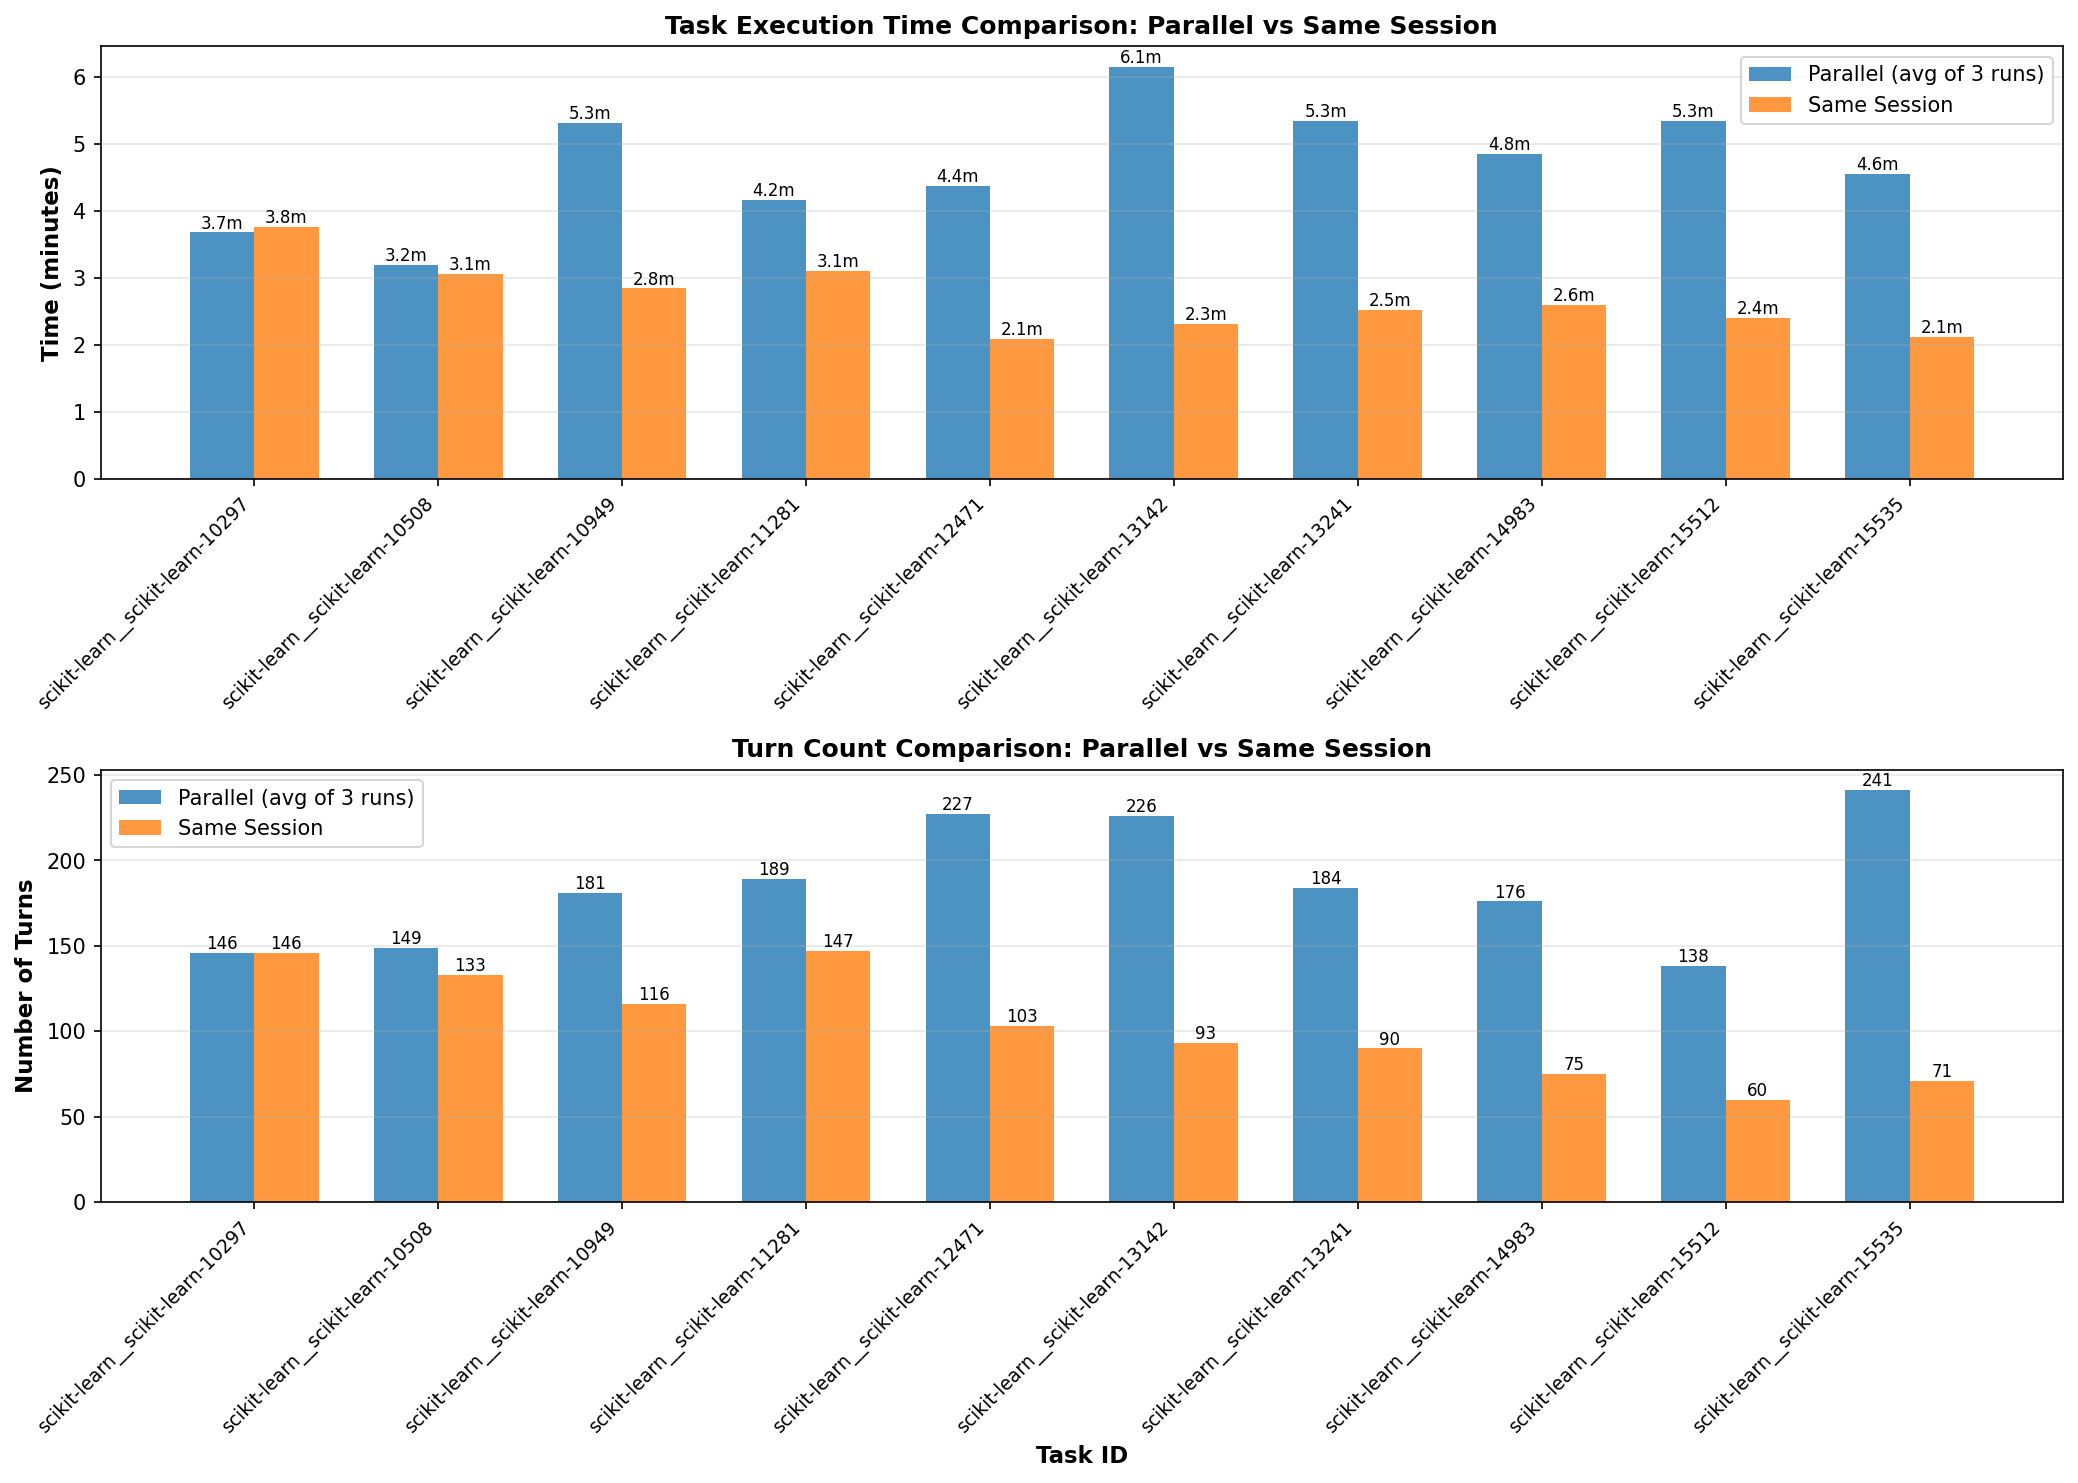
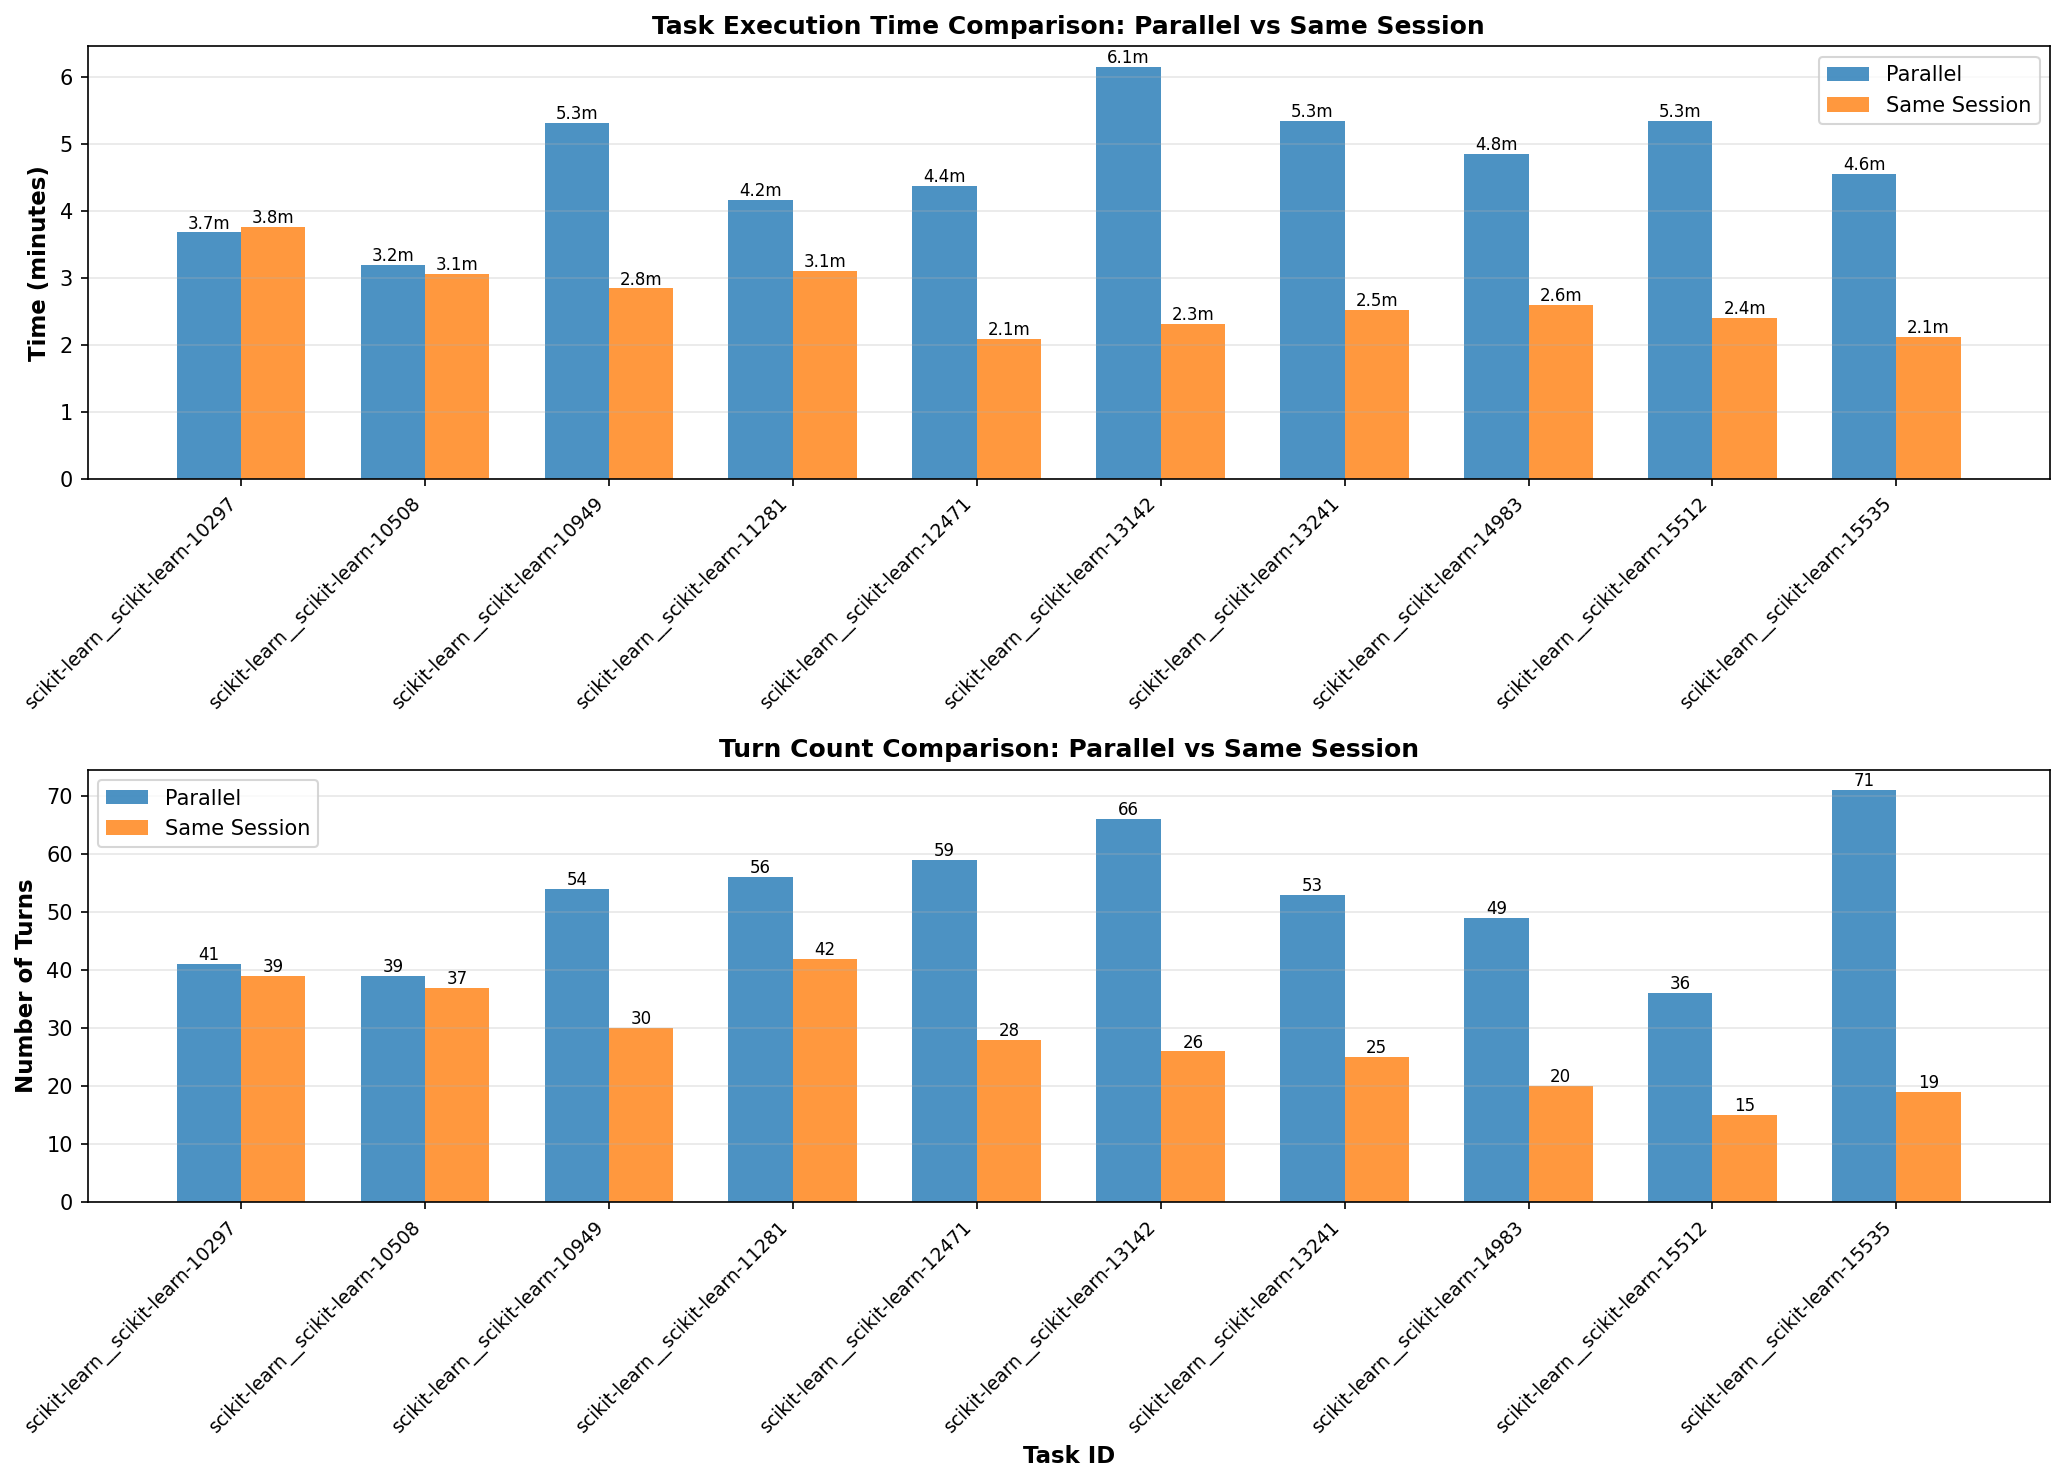
update turn count formula

diff --git a/generate_scikit_comparison.py b/generate_scikit_comparison.py
@@ -29,7 +29,9 @@ def parse_logs(log_dirs):
                     ts_str = data.get("timestamp")
                     if ts_str:
                         timestamps.append(ts_str)
-                    turn_count += 1
+                    # Count turns as tool execution cycles (number of user tool result events)
+                    if data.get("payload", {}).get("type") == "user":
+                        turn_count += 1
 
             if timestamps:
                 start = datetime.fromisoformat(timestamps[0].replace('+00:00', '+00:00'))
@@ -57,13 +59,12 @@ def main():
     parallel_raw = parse_logs(parallel_dirs)
     same_session_raw = parse_logs([same_session_dir])
 
-    # Aggregate parallel runs (take average across the 3 parallel runs)
+    # Aggregate parallel runs (each task appears in only one directory)
     parallel_metrics = {}
     for task_id, data in parallel_raw.items():
         parallel_metrics[task_id] = {
-            "elapsed_minutes": np.mean(data["times"]),
-            "turns": np.mean(data["turns"]),
-            "times": data["times"]
+            "elapsed_minutes": data["times"][0],
+            "turns": data["turns"][0],
         }
 
     # Same session has one run per task
@@ -105,7 +106,7 @@ def main():
     width = 0.35
 
     ax = axes[0]
-    bars1 = ax.bar(x - width/2, times_parallel, width, label='Parallel (avg of 3 runs)', color='#1f77b4', alpha=0.8)
+    bars1 = ax.bar(x - width/2, times_parallel, width, label='Parallel', color='#1f77b4', alpha=0.8)
     bars2 = ax.bar(x + width/2, times_same, width, label='Same Session', color='#ff7f0e', alpha=0.8)
 
     ax.set_ylabel('Time (minutes)', fontsize=11, fontweight='bold')
@@ -128,7 +129,7 @@ def main():
     turns_same = [same_session_metrics[t]["turns"] for t in task_ids]
 
     ax = axes[1]
-    bars1 = ax.bar(x - width/2, turns_parallel, width, label='Parallel (avg of 3 runs)', color='#1f77b4', alpha=0.8)
+    bars1 = ax.bar(x - width/2, turns_parallel, width, label='Parallel', color='#1f77b4', alpha=0.8)
     bars2 = ax.bar(x + width/2, turns_same, width, label='Same Session', color='#ff7f0e', alpha=0.8)
 
     ax.set_xlabel('Task ID', fontsize=11, fontweight='bold')
@@ -158,7 +159,7 @@ def main():
 
 ![Scikit-learn task run comparison charts](scikit-run-comparison.png)
 
-Comparison of parallel runs (`output_logs/parallel/20260430T030135Z`, `20260430T030901Z`, `20260430T032103Z`) and same-session run (`output_logs/same_session/20260430T063815Z`).
+Comparison of parallel runs (10 tasks across `output_logs/parallel/20260430T030135Z`, `20260430T030901Z`, `20260430T032103Z`) and same-session run (`output_logs/same_session/20260430T063815Z`).
 
 Task order: {', '.join('`' + t.replace('scikit-learn__scikit-learn-', '') + '`' for t in task_ids_sorted[:5])}.
 

diff --git a/scikit-run-comparison.md b/scikit-run-comparison.md
@@ -2,7 +2,7 @@
 
 ![Scikit-learn task run comparison charts](scikit-run-comparison.png)
 
-Comparison of parallel runs (`output_logs/parallel/20260430T030135Z`, `20260430T030901Z`, `20260430T032103Z`) and same-session run (`output_logs/same_session/20260430T063815Z`).
+Comparison of parallel runs (10 tasks across `output_logs/parallel/20260430T030135Z`, `20260430T030901Z`, `20260430T032103Z`) and same-session run (`output_logs/same_session/20260430T063815Z`).
 
 Task order: `10297`, `10508`, `10949`, `11281`, `12471`.
 
@@ -13,9 +13,9 @@ Task order: `10297`, `10508`, `10949`, `11281`, `12471`.
 | Parallel wall-clock lower bound | 6.15m |
 | Parallel summed task time | 46.93m |
 | Same-session summed task time | 26.82m |
-| Parallel total turns | 1857 |
-| Same-session total turns | 1034 |
-| Turn delta, same minus parallel | -823 |
+| Parallel total turns | 524 |
+| Same-session total turns | 281 |
+| Turn delta, same minus parallel | -243 |
 
 ## Time By Task
 
@@ -36,13 +36,13 @@ Task order: `10297`, `10508`, `10949`, `11281`, `12471`.
 
 | Task | Parallel | Same Session |
 | --- | ---: | ---: |
-| `10297` | 146 | 146 |
-| `10508` | 149 | 133 |
-| `10949` | 181 | 116 |
-| `11281` | 189 | 147 |
-| `12471` | 227 | 103 |
-| `13142` | 226 | 93 |
-| `13241` | 184 | 90 |
-| `14983` | 176 | 75 |
-| `15512` | 138 | 60 |
-| `15535` | 241 | 71 |
+| `10297` | 41 | 39 |
+| `10508` | 39 | 37 |
+| `10949` | 54 | 30 |
+| `11281` | 56 | 42 |
+| `12471` | 59 | 28 |
+| `13142` | 66 | 26 |
+| `13241` | 53 | 25 |
+| `14983` | 49 | 20 |
+| `15512` | 36 | 15 |
+| `15535` | 71 | 19 |